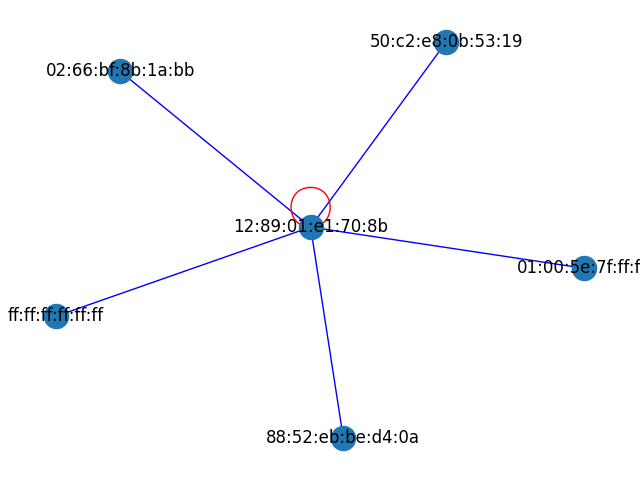
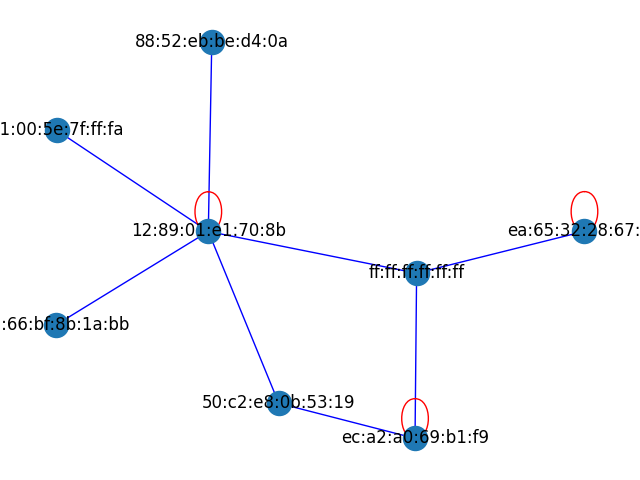
Added Ids

diff --git a/main.py b/main.py
@@ -14,13 +14,13 @@ import pyrebase
 app = FastAPI()
 
 config = {
-    "apiKey": "AIzaSyAjiSpbW-qxxSTWWbk_AS10wvj-7O7PzvY",
-    "authDomain": "meshhawk-b897d.firebaseapp.com",
-    "projectId": "meshhawk-b897d",
-    "storageBucket": "meshhawk-b897d.appspot.com",
-    "messagingSenderId": "1097191319781",
-    "appId": "1:1097191319781:web:a4734e2e02eea9a73b4c0c",
-    "measurementId": "G-TQZTZHTR79",
+    "apiKey":"AIzaSyAkuhoVUDIMQwy6QEa-yzqUyFsBEUzPhL8",
+    "authDomain":"meshhawk-c168a.firebaseapp.com",
+    "projectId":"meshhawk-c168a",
+    "storageBucket": "meshhawk-c168a.appspot.com",
+    "messagingSenderId": "647266716782",
+    "appId": "1:647266716782:web:8671d1a85cda7aedcd2a7f",
+    "measurementId": "G-E5BY1Q33NL",
     "databaseURL": ""
 }
 oauth2_scheme = OAuth2PasswordBearer(tokenUrl="/login")
@@ -56,23 +56,10 @@ async def login(form_data: OAuth2PasswordRequestForm = Depends()):
 
 @app.get("/get_userid",tags=['Auth'])
 async def get_userid(token : str= Depends(oauth2_scheme)):
-    response = client.get_user(
-        AccessToken=token
-    )
-    username = response['Username']
-    print(username)
-    conn = await get_connection()
-    query = f"SELECT userid FROM users WHERE username='{username}'"
-    userid = None
-    
-    async with conn.cursor() as cursor:
-        await cursor.execute(query)
-        result = await cursor.fetchall()
-        if result:
-            userid = result[0][0]
-        await release_connection(conn)
-    
-    return {"userid": userid} 
+    info=auth.get_account_info(token)
+    #print(info['users'][0]['email'])
+    email=info['users'][0]['email']
+    return {"userid": email} 
 
 @app.post("/generate_graph")
 def generate_graph(pcapng_file: UploadFile = File(...)):

diff --git a/pcaptograph.py b/pcaptograph.py
@@ -9,13 +9,13 @@ def check_mesh_network(pcapng_file):
     mac = []
     for packet in packets:
         if packet.haslayer(Dot11):
-            if packet.addr3 == 'ec:a2:a0:69:b1:f9' or packet.addr3 == 'ea:65:32:28:67:0a':
-                pass
-            else:
-                rrc_mac = packet.addr2  # receiver
-                src_mac = packet.addr3  # source
-                dst_mac = packet.addr1  # dest
-                mac.append([src_mac, rrc_mac, dst_mac])
+            # if packet.addr3 == 'ec:a2:a0:69:b1:f9' or packet.addr3 == 'ea:65:32:28:67:0a':
+            #     pass
+            # else:
+            rrc_mac = packet.addr2  # receiver
+            src_mac = packet.addr3  # source
+            dst_mac = packet.addr1  # dest
+            mac.append([src_mac, rrc_mac, dst_mac])
     return mac
 
 

diff --git a/fire_auths.py b/fire_auths.py
@@ -20,4 +20,6 @@ password='string'
 # print(user)
 
 usersignin=auth.sign_in_with_email_and_password(email,password)
-print(usersignin)
+# print(usersignin)
+info=auth.get_account_info(usersignin['idToken'])
+print(info['users'][0]['email'])
